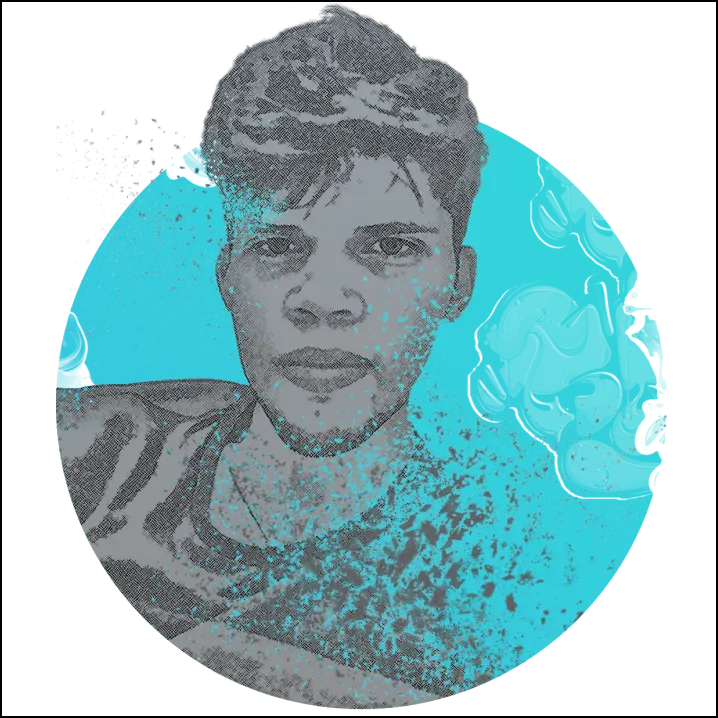
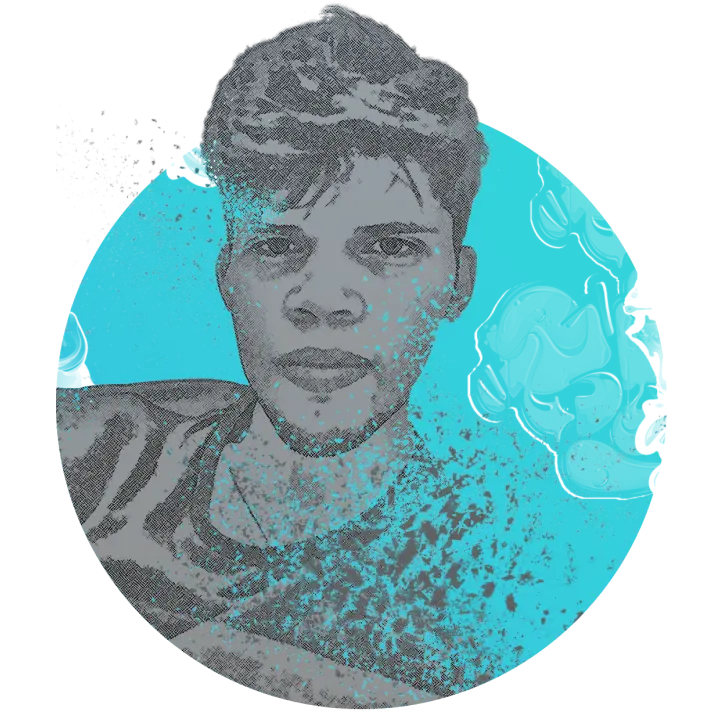
stroke none perfil

Changed region(s): [[0.0, 0.0, 1.0, 1.0], [0.0, 0.0, 0.0306, 0.0306]]

diff --git a/index.html b/index.html
@@ -29,8 +29,8 @@
     </div>
   </header>
   <main class="introducao">
-    <img src="./img/Perfil.webp" alt="foto de perfil" width="319" height="319">
-    <!-- <img src="./img/Perfil.jpg" alt="foto de perfil artística" width="458" height="458"> -->
+    <!-- <img src="./img/Perfil.webp" alt="foto de perfil" width="319" height="319"> -->
+    <img src="./img/Perfil.webp" alt="foto de perfil artística" width="458" height="458">
     <div>
       <span class="intro-detail-up"></span>
       <h1>Desenvolvedor<br>
